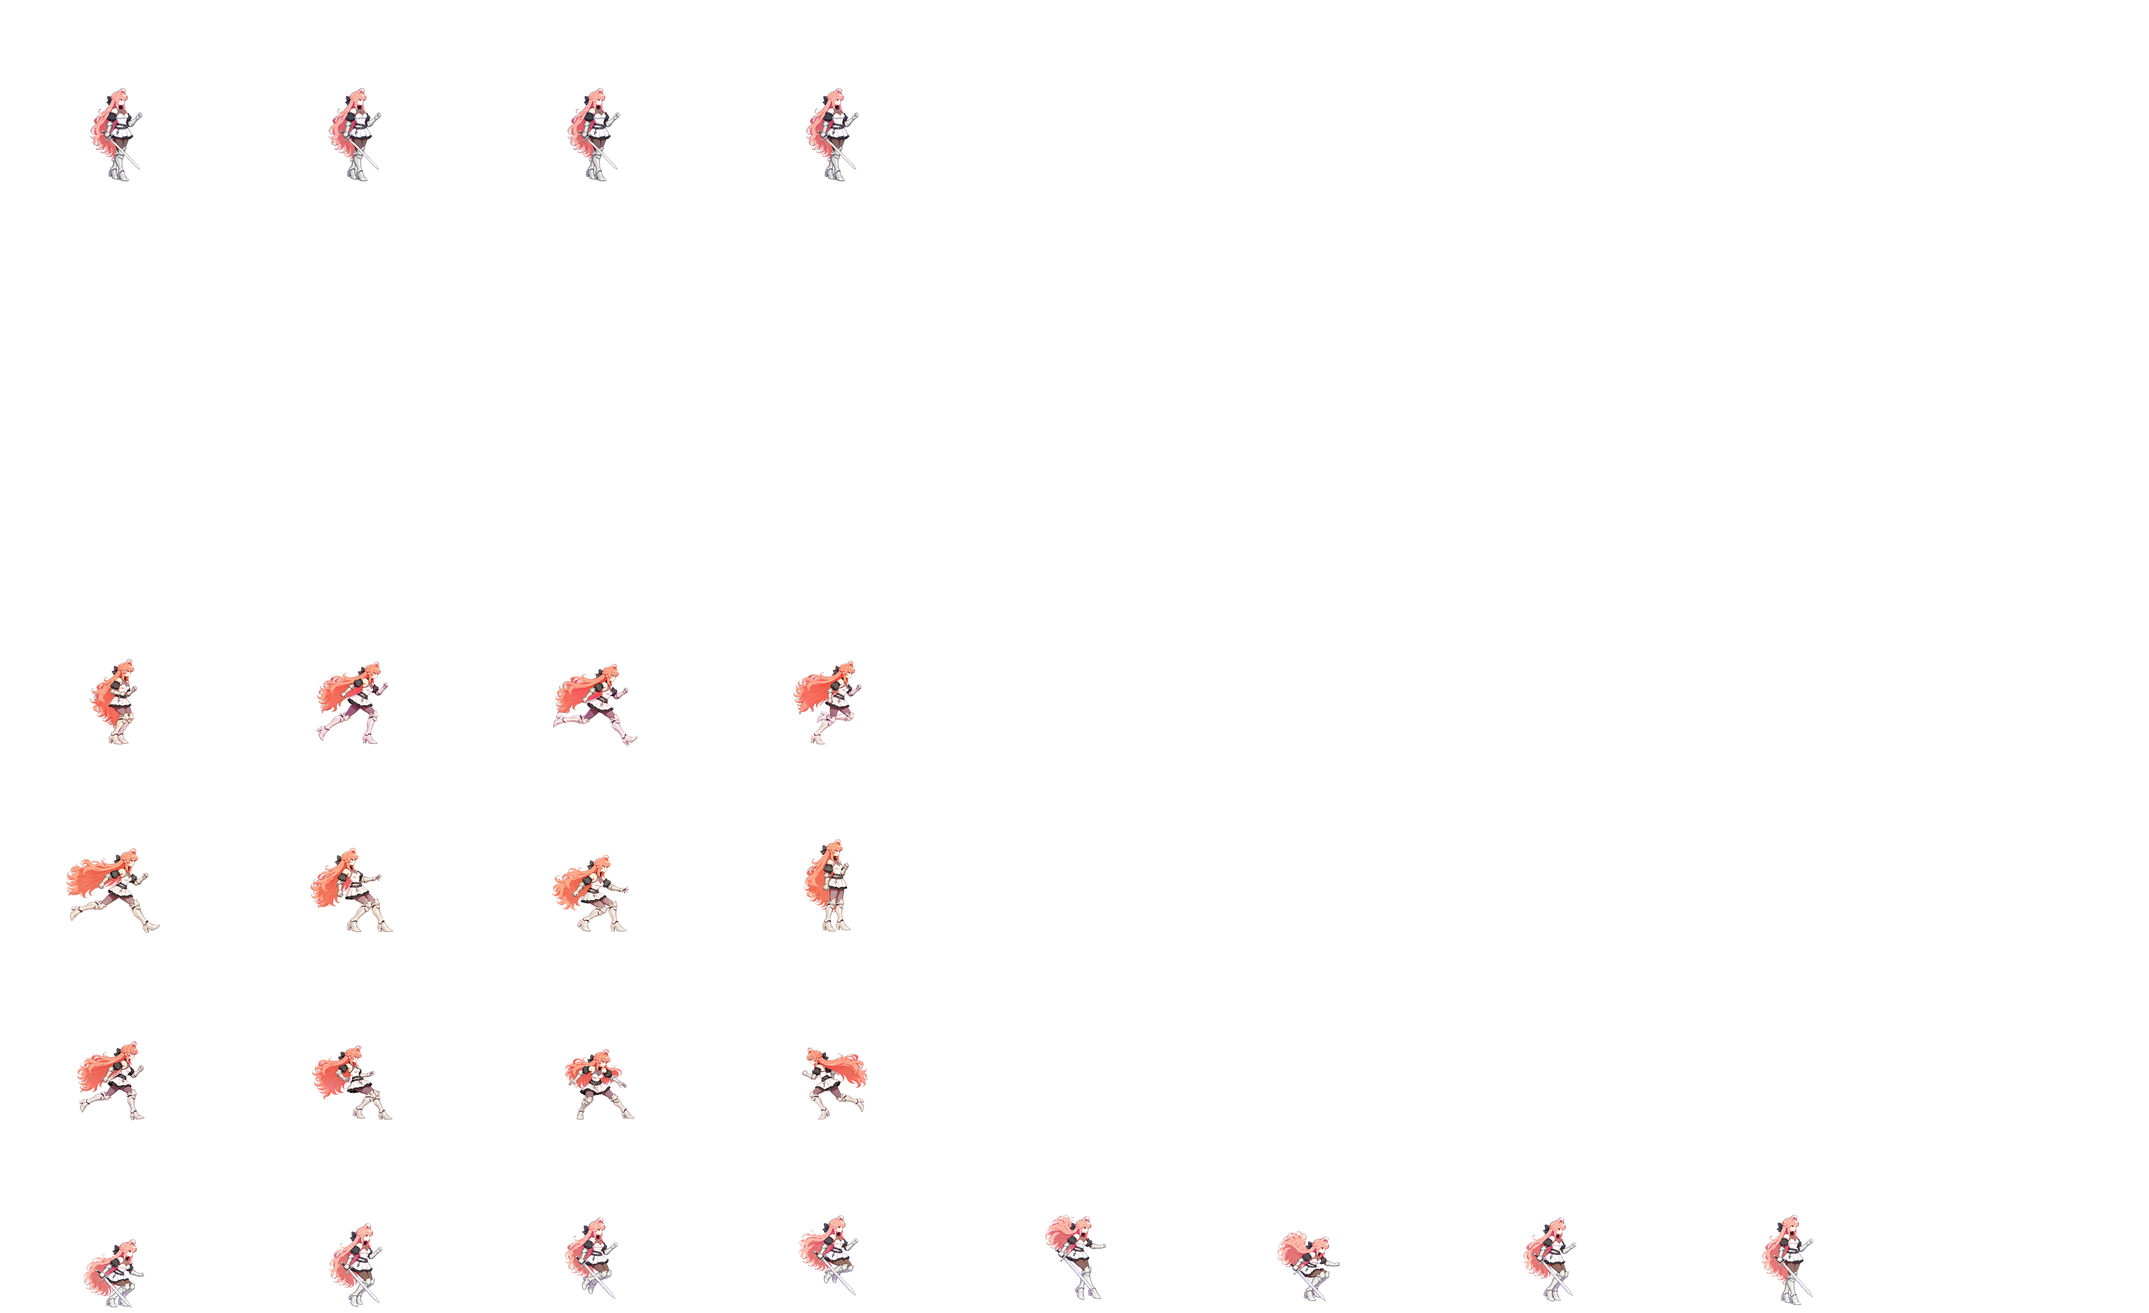
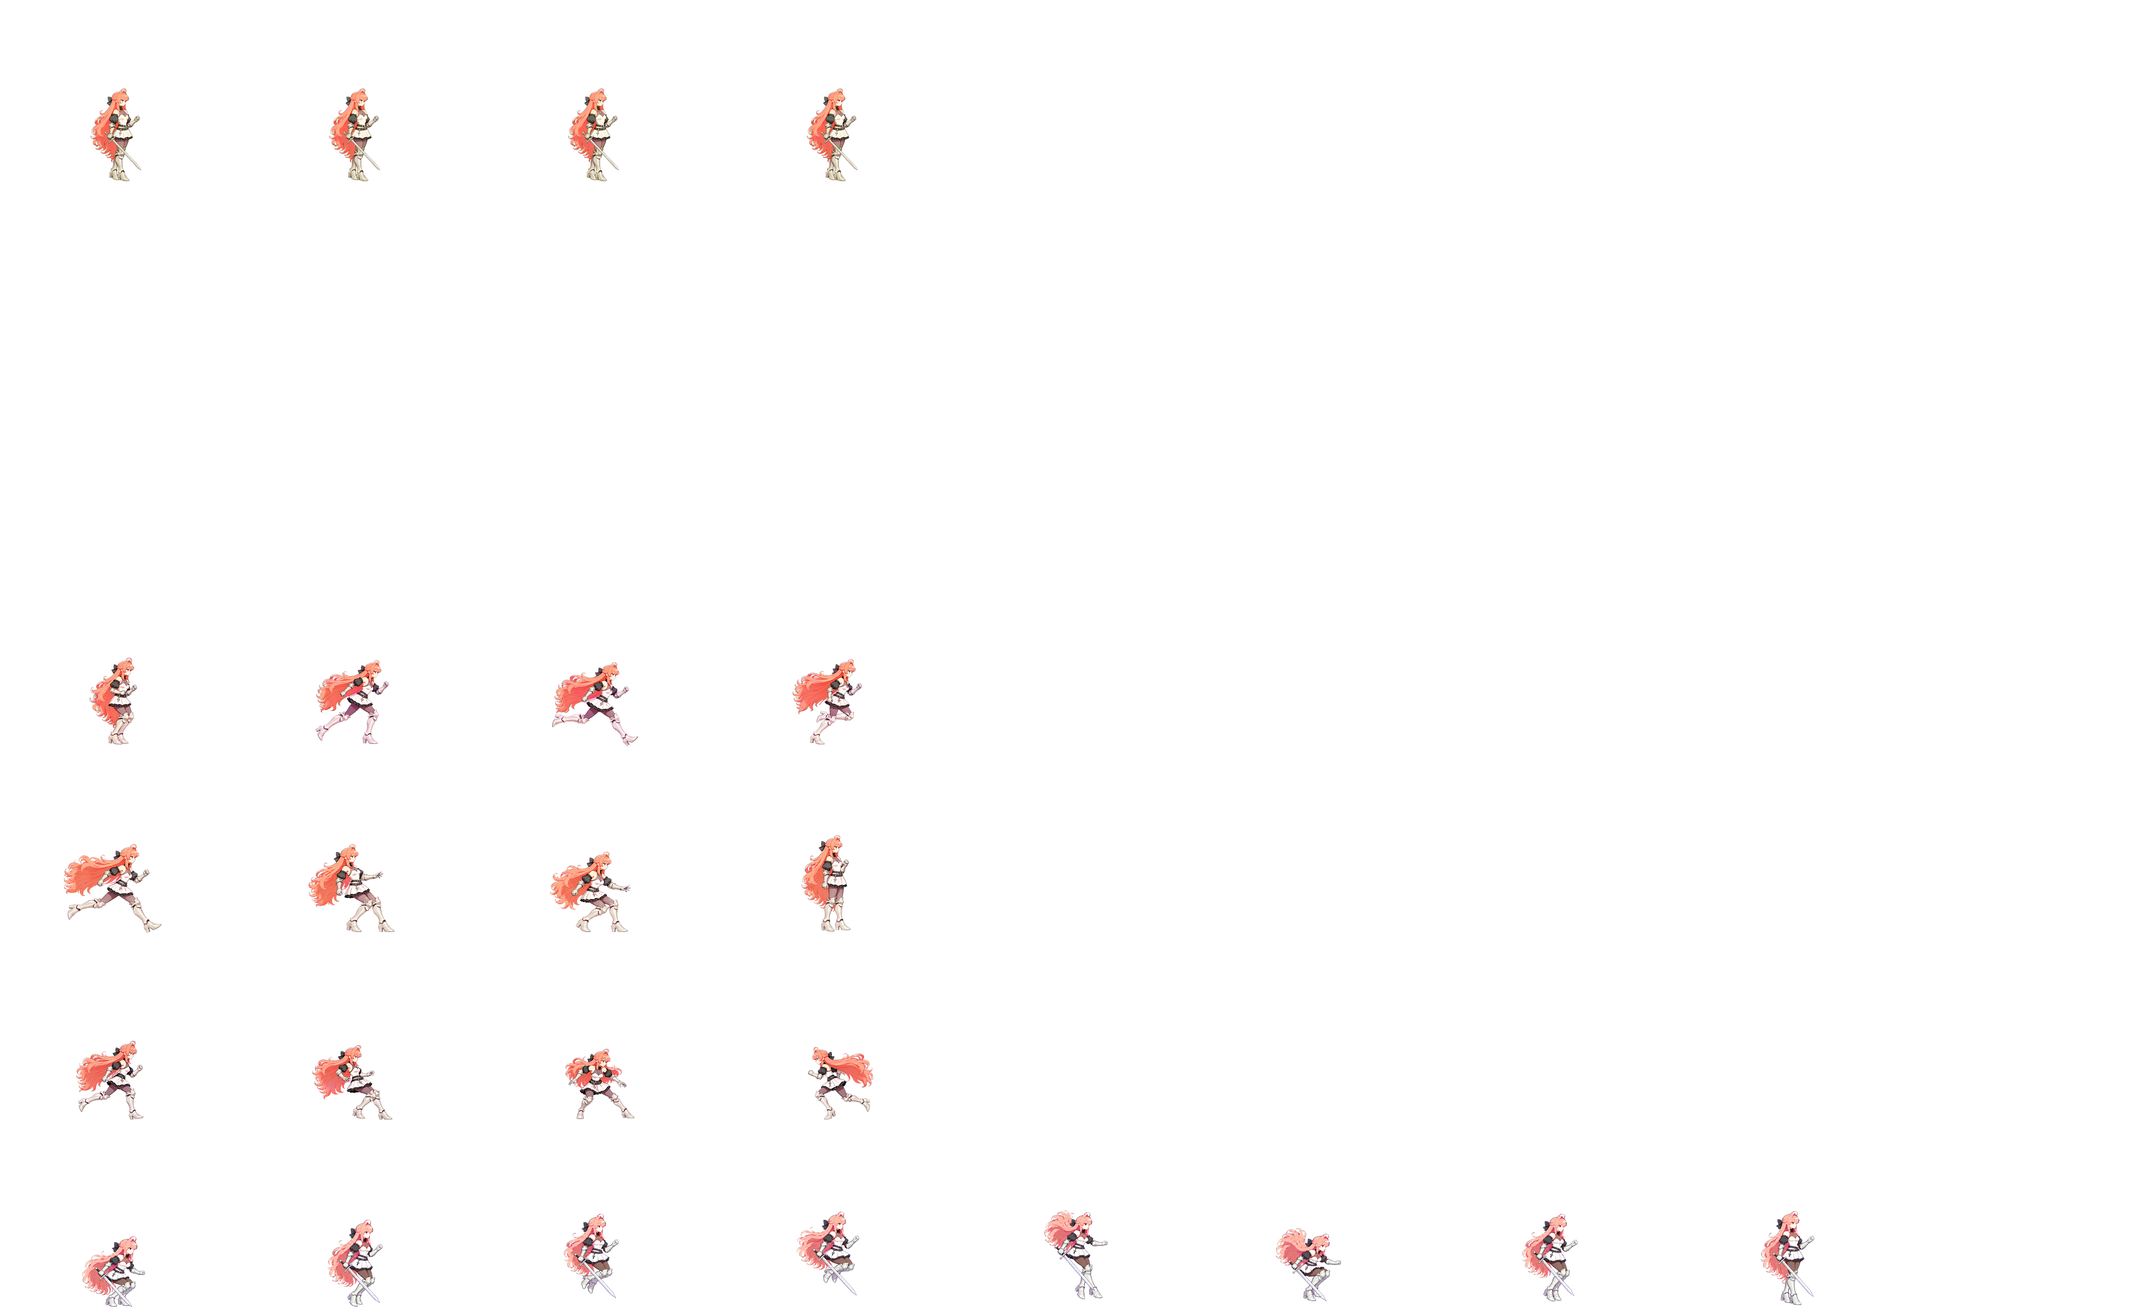
초심: idle is the v2 standing picture; every row re-measured against its head
- Row 0 idle: estelle_v2/ref_greenbg.png (green keyed), the same picture in all 4 frames; the game's idle breathing
  gives the motion. Still the size reference at the same standing height (174 px, 166-339); the breathing lines
  (neck 211, waist 259) sit on the collar and the skirt hem. --v1-idle builds the first idle again.
- The head template is the new idle's crown, face and chin; every other delivery is re-measured against it
  (about +1-7 %, median +3.5 %, vs the v1 head). head_match won't go under a head 15 % of the frame's height, and a
  strip's size is its best match with the good matches that agree with it, so lying / tumbling heads can't vote.
- docs: attack1 (내려베기) and run are to be redrawn; the hair-colour note now covers jump / runjump / walk only.
- tests/cap_skin_flow.gd: idle → walk → run → combo in town, and an idle breathing close-up.

Claude-Session: https://claude.ai/code/session_01VqwGMT6BLxBYQ9bji8g8nf

diff --git a/tools/make_skin_chosim.py b/tools/make_skin_chosim.py
@@ -4,13 +4,14 @@
 usage: python3 tools/make_skin_chosim.py <estelle_v1 folder> <estelle_v2 folder> [contact-sheet folder] [--v1-loco] [--v1-st]
 
 estelle_v1 (the first delivery; magenta sheets on a loose grid, run / walk transparent):
-  idle_4f_magenta.png       4 idle frames                                        → row 0  idle (the size reference)
   jump_8f_magenta.png       crouch, take-off, rise, apex, fall, fall, land, land → row 6  jump
   run6_magenta.png          running take-off (2 rows of 3)                       → row 7  runjump
   walk_43f.png              43-frame walk cycle (7 a row)                        → rows 36-37 walk, 10 of its frames (KEEP)
-  walkstart / runstop / turn_4f_magenta.png, run_18f.png, ref_greenbg.png: the first start, stop, turn, run and standing
-                            art, replaced by v2's; --v1-loco / --v1-st build from them again
+  idle_4f_magenta.png, walkstart / runstop / turn_4f_magenta.png, run_18f.png, ref_greenbg.png: the first idle, start,
+                            stop, turn, run and standing art, replaced by v2's; --v1-idle / --v1-loco / --v1-st build them again
 estelle_v2 (one row per file, facing right, magenta unless noted):
+  ref_greenbg.png (green) → row 0 idle: the standing picture, the same in all 4 frames (the game's idle breathing,
+                            player.gd draw_frame, stretches the torso for the motion); the size reference; also st_base.png
   run_15f.png (transparent, 4 a row) → row 35 run, 8 of 15     start_4f / stop_4f / turn_4f → rows 3 / 4 / 5
   attack1_5f (overhead slash) → 8   attack2_rising_5f → 9   attack3_thrust_5f → 10   kneel_4f → 11   kneel_attack_6f → 12
   attack_high_5f → 13   guard_4f → 14   air_combo_9f → 16   dive_6f → 17 (6 of 6, one held twice, one left out)
@@ -23,10 +24,10 @@ Keying: magenta / green by colour unmixing (skin_slice.key_out); the attack rows
   white (key_out smear=True). Frames of a v2 strip are found from body cores (skin_slice.split_frames), not grid slots: the
   frames sit unevenly and touch.
 Normalisation, the same for every row so 초심 is one character:
-  scale     one factor per delivery image from the HEAD (idle frame 0's crown-to-chin, matched at many scales / tilts), so a
+  scale     one factor per delivery image from the HEAD (idle's crown, face and chin, matched at many scales / tilts), so a
             crouch, a lean, a somersault or a body lying on the floor is never blown up to a standing height. Idle keeps its
-            factor (its median height on 기본's). v2 strips: the matches within 0.05 of the strip's best score (a turned-away,
-            upside-down or lying head matches badly and is left out).
+            factor (its median height on 기본's). v2 strips: the best-scoring frame's size, with the good matches that agree with it
+            (a turned-away, tumbling or lying head can score well at a wrong size and is left out).
   baseline  'ground' rows: each frame's lowest solid row (24+ solid source pixels wide, so a blade tip or a smear under the
             boots doesn't count) on the feet line (340). 'air' rows keep the image's own vertical layout: frames listed as
             standing are on the line, the others rise by how far their feet are above those (jump, dive's take-off, the
@@ -52,6 +53,7 @@ FLAGS = {a for a in sys.argv[1:] if a.startswith('--')}
 SRC1, SRC2 = args[0], args[1]
 CS = args[2] if len(args) > 2 else None
 V1_LOCO = '--v1-loco' in FLAGS
+V1_IDLE = '--v1-idle' in FLAGS
 CSCALE = 1.3                          # chars.gd SCALE estelle: a sheet pixel is 0.5 × 1.3 world px
 RUN_SPEED, WALK_SPEED = 0.36, 0.2     # px/ms: player.gd RUN, townsfolk.gd WALKSP estelle
 
@@ -64,7 +66,6 @@ def base_h(row):
 
 # ---------------- v1: as the first build made them ----------------
 SPEC1 = [  # name, file, key, cols, n, target row, grounded
-    ('idle', 'idle_4f_magenta.png', 'magenta', 4, 4, 0, True),
     ('jump', 'jump_8f_magenta.png', 'magenta', 4, 8, 6, False),
     ('runjump', 'run6_magenta.png', 'magenta', 3, 6, 7, False),
     ('walk', 'walk_43f.png', None, 7, 43, 36, True),
@@ -75,7 +76,10 @@ if V1_LOCO:
 # walk: footfalls at 13 and 37, passing near 3 and 26; steps of 24 and 19 frames → 5 a step. (v1 run: 16, 1, 3, 5, 7, 10, 12, 14)
 KEEP = {'walk': [2, 5, 9, 13, 18, 22, 26, 31, 37, 41]}
 if V1_LOCO: KEEP['run'] = [16, 1, 3, 5, 7, 10, 12, 14]
-HEAD_BOX = (150, 10, 275, 135)          # idle frame 0's head in the source pixels: crown, bow and chin
+if V1_IDLE: SPEC1.insert(0, ('idle', 'idle_4f_magenta.png', 'magenta', 4, 4, 0, True))
+# idle frame 0's head in its source pixels (cropped to the figure): crown, bow, face and chin, no loose hair
+HEAD_BOX = (150, 10, 275, 135) if V1_IDLE else (185, 20, 330, 170)
+HEAD_SCALES = (0.25, 1.31)              # the v2 idle's head is ~1.25x the v1 idle's in source pixels: room below 0.40
 GROUND1 = {'jump': [0, 6, 7], 'runjump': [0]}      # frames standing on the ground (verified by eye)
 
 # ---------------- v2 ----------------
@@ -146,6 +150,11 @@ def render(f, k, ax, lift=0.0):
 
 # ---- v1 ----
 strips = {}
+if not V1_IDLE:
+    st0 = S.key_out(os.path.join(SRC2, 'ref_greenbg.png'), 'green')
+    f0 = S.measure(S.frames_from_rgba(st0, 1, 1))[0]
+    f0['slot_bottom'] = f0['bottom']
+    strips['idle'] = ([dict(f0) for _ in range(4)], 0, True, st0.shape[0])
 for nm, fn, key, cols, n, row, grounded in SPEC1:
     path = os.path.join(SRC1, fn)
     im = S.key_out(path, key) if key else np.asarray(Image.open(path).convert('RGBA'))
@@ -160,7 +169,7 @@ idle_fr = strips['idle'][0]
 REF = idle_fr[0]['rgba']
 k_idle = base_h(0) / float(np.median([f['height'] for f in idle_fr]))
 for nm, (fr, row, grounded, sh) in strips.items():
-    rel, per = S.head_size(REF, HEAD_BOX, fr, every=max(1, len(fr) // 6))
+    rel, per = S.head_size(REF, HEAD_BOX, fr, every=max(1, len(fr) // 6), scales=HEAD_SCALES)
     if nm == 'idle': rel = 1.0
     head[nm] = {'head_vs_idle': round(rel, 3), 'frames': per}
     scale[nm] = k_idle / rel
@@ -203,7 +212,7 @@ def measure2(f):
     lum = rgb @ np.float32([0.299, 0.587, 0.114])
     ys, xs = np.nonzero((a > 200) & (lum < 70))
     f['dark'] = (float(xs.mean()), float(ys.mean())) if len(xs) else (a.shape[1] / 2, a.shape[0] / 2)
-    hm = S.head_match(REF, HEAD_BOX, f['rgba'])
+    hm = S.head_match(REF, HEAD_BOX, f['rgba'], scales=HEAD_SCALES)
     f['head'] = hm
     crown = hm[4] - HEAD_BOX[1] * hm[1]
     f['crown'] = crown if hm[0] >= 0.6 and abs(hm[2]) <= 10 and crown < f['bottom'] - 40 else f['top']
@@ -220,9 +229,11 @@ for nm, o in SPEC2.items():
     fr = [measure2(f) for f in S.split_frames(im, o['n'], o.get('cols'))]
     for f in fr:
         f['slot_bottom'] = f['box'][1] + f['bottom']
-    # the head's size: the matches within 0.05 of the strip's best (the head turned away, upside down or lying matches badly)
-    sc = [f['head'][0] for f in fr]
-    good = [f['head'][1] for f in fr if f['head'][0] >= max(sc) - 0.05]
+    # the head's size: the strip's best match (an upright head), with the other good matches (score within 0.08 of it)
+    # that agree with it within 12 %; a head turned away, tumbling or lying on the floor can score well at a wrong size
+    bi = int(np.argmax([f['head'][0] for f in fr]))
+    s0, v0 = fr[bi]['head'][1], fr[bi]['head'][0]
+    good = [f['head'][1] for f in fr if f['head'][0] >= v0 - 0.08 and abs(f['head'][1] / s0 - 1) <= 0.12]
     rel = float(np.median(good))
     k = k_idle / rel
     raw2[nm] = fr

diff --git a/tools/skin_slice.py b/tools/skin_slice.py
@@ -98,8 +98,11 @@ def _gray(rgba):
     return g @ np.float32([0.299, 0.587, 0.114])
 
 
-def head_match(ref_rgba, box, frame_rgba, region=0.7, half=0.5, scales=(0.40, 1.31)):
-    """the reference head (box in ref_rgba) found in one frame: (score, scale, tilt, x, y of the box's top-left in the frame)"""
+def head_match(ref_rgba, box, frame_rgba, region=0.7, half=0.5, scales=(0.40, 1.31), min_frac=0.15):
+    """the reference head (box in ref_rgba) found in one frame: (score, scale, tilt, x, y of the box's top-left in the frame).
+    A head is never under min_frac of the frame's height (a crouch, a lying body or a somersault is at most ~5-6 heads
+    tall): the search starts there, so a tiny template can't lock onto a bow or a strand of hair"""
+    scales = (max(scales[0], min_frac * frame_rgba.shape[0] / (box[3] - box[1])), scales[1])
     import cv2
     x0, y0, x1, y1 = box
     tpl = _gray(ref_rgba)[y0:y1, x0:x1]
@@ -120,7 +123,7 @@ def head_match(ref_rgba, box, frame_rgba, region=0.7, half=0.5, scales=(0.40, 1.
     return round(v, 3), round(float(s), 3), r, loc[0] / half, loc[1] / half
 
 
-def head_size(ref_rgba, box, frames, every=1, region=0.55, min_score=0.85, half=0.5):
+def head_size(ref_rgba, box, frames, every=1, region=0.55, min_score=0.85, half=0.5, scales=(0.40, 1.31)):
     """the head's size in each frame relative to the reference frame (1.0 = the same pixel size): the reference's head
     (box = x0, y0, x1, y1 around crown, bow and chin, no loose hair) is matched over the upper part of each frame at
     scales 0.40-1.30 and tilts -15..+10 deg (normalised cross-correlation, half resolution, then refined).
@@ -141,7 +144,7 @@ def head_size(ref_rgba, box, frames, every=1, region=0.55, min_score=0.85, half=
             if h >= im.shape[0] or w >= im.shape[1]: return -1.0
             t = cv2.warpAffine(t, cv2.getRotationMatrix2D((w / 2, h / 2), r, 1.0), (w, h), borderMode=cv2.BORDER_REPLICATE)
             return float(cv2.minMaxLoc(cv2.matchTemplate(im, t, cv2.TM_CCOEFF_NORMED))[1])
-        best = max((score(s, r), s, r) for s in np.arange(0.40, 1.31, 0.03) for r in range(-15, 11, 5))
+        best = max((score(s, r), s, r) for s in np.arange(scales[0], scales[1], 0.03) for r in range(-15, 11, 5))
         best = max([best] + [(score(s, r), s, r) for s in np.arange(best[1] - 0.03, best[1] + 0.031, 0.006)
                              for r in (best[2] - 2, best[2], best[2] + 2)])
         res.append((i, round(best[0], 3), round(float(best[1]), 3), best[2]))

diff --git a/docs/skin_assets.md b/docs/skin_assets.md
@@ -161,12 +161,12 @@ GPT·NAI에 포즈 레퍼런스로 넣을 때는 이 그림에서 해당 줄만 
 ### 받아서 넣은 것 (줄 → 원본 파일)
 
 1차(`estelle_v1`)
-- 줄 0 idle 대기 4장 ← `idle_4f_magenta.png` (크기 기준)
 - 줄 6 jump 점프 8장 ← `jump_8f_magenta.png`
 - 줄 7 runjump 달려 점프 6장 ← `run6_magenta.png`
 - 줄 36 ~ 37 walk 걷기 10장 ← `walk_43f.png` 중 10장(원본 2, 5, 9, 13, 18, 22, 26, 31, 37, 41번), 한 바퀴 1050 ms
 
 2차(`estelle_v2`)
+- 줄 0 idle 대기 4장 ← `ref_greenbg.png`(서 있는 그림, 초록 배경). 네 장이 같은 그림이고, 움직임은 게임의 숨쉬기(가슴이 몇 픽셀 늘었다 줄었다)가 준다. 크기 기준: 서 있는 키는 전과 같은 174 px(칸 위에서 166 ~ 339). 숨쉬기 기준선(목 211, 허리 259)은 새 자세의 목깃과 치맛단에 걸린다. 1차 대기(`idle_4f_magenta.png`)는 쓰지 않는다(`--v1-idle`로 되돌림)
 - 줄 3 start 출발 4장 ← `start_4f.png` · 줄 4 stop 멈춤 4장 ← `stop_4f.png` · 줄 5 turn 돌아서기 4장 ← `turn_4f.png` (1차 것을 바꿈)
 - 줄 35 run 달리기 8장 ← `run_15f.png`(15장, 투명) 중 8장: 원본 14, 1, 3, 5, 7, 8, 10, 12번(뻗음, 디딤, 내려앉음, 교차 × 두 걸음). 발이 닿는 장은 원본 1·8번 = 게임 1·5번(먼지·발소리). 한 장 80 ms, 원본 7→8은 한 칸 차이라 7번만 50 ms, 한 바퀴 610 ms(초당 약 3.3걸음). 처음과 끝이 이어지는 자리의 변화량이 걸음 안의 변화량과 같아서 고리가 매끄럽다. 보폭이 짧아 발이 조금 미끄러진다(발을 붙이려면 한 바퀴 398 ms여야 함)
 - 줄 8 attack1 1타 5장 ← `attack1_5f.png` (위에서 비스듬히 내려 베기)
@@ -195,14 +195,16 @@ GPT·NAI에 포즈 레퍼런스로 넣을 때는 이 그림에서 해당 줄만 
 
 - 자홍·초록 배경은 색을 풀어 빼는 방식으로 지웠다. 공격 장의 반투명 잔상(흰 부채꼴)은 자홍 위에 흰색이 반쯤 얹힌 색이라, 그 픽셀만 따로 투명도를 다시 계산해 흰색으로 되돌렸다(자홍 물이 빠지고, 흐린 끝자락도 남는다)
 - 2차 그림은 프레임 간격이 고르지 않고 칼끝·잔상이 옆 장의 머리카락에 닿아 있어, 칸으로 나누지 않고 몸통에서부터 나누어 찾는다
-- 크기는 **머리 크기**로 맞췄다(파일마다 하나의 배율). 웅크리기, 공중제비, 쓰러져 누운 장도 서 있는 장과 같은 배율이라 부풀지 않는다. 머리가 돌아가거나 거꾸로인 장은 머리 찾기 점수가 낮아 배율 계산에서 빠진다
+- 크기는 **머리 크기**로 맞췄다(파일마다 하나의 배율). 기준 머리는 새 대기 그림(2차 서 있는 그림)의 정수리·얼굴·턱이다. 대기를 바꾸면서 다른 줄을 모두 새 머리로 다시 재었고, 전보다 약 1 ~ 7%(가운데 3.5%) 커졌다(2차 그림은 같은 화풍의 머리와 맞춰져 더 정확하다). 웅크리기, 공중제비, 쓰러져 누운 장도 서 있는 장과 같은 배율이라 부풀지 않는다. 머리가 돌아가거나 거꾸로인 장은 머리 찾기 점수가 낮아 배율 계산에서 빠진다
 - 땅을 딛는 줄은 신발 바닥을 기준선에(칼끝이나 잔상이 발보다 아래로 내려가도 발 기준). 공중 줄(air_combo, air_guard, double_jump, dive의 앞 장, dash의 날아가는 장)은 원본의 높낮이를 그대로 살렸다
 - 가로는 골반 기준. 크게 내딛는 공격(attack1·2·3, attack_high)은 2 ~ 4번째 장에서 뒷발을 첫 장 자리에 붙여 몸이 앞으로 나가게 하고, 첫 장과 마지막 장은 골반이 대기 자리라 시작·끝에서 튀지 않는다. 공중제비는 몸통(검은 소매·허리띠) 중심으로 돈다
 
 ### 알아 둘 것 (그림 문제)
 
-- **2차 달리기·출발·멈춤·돌아서기에는 칼이 없다.** 대기·점프·걷기(1차)와 공격 줄(2차)은 칼을 들고 있어서, 대기 → 출발, 달리기 → 공격·점프로 넘어갈 때 칼이 사라졌다 나타난다. 칼을 든 달리기 4종을 다시 받으면 좋다. 1차 것으로 되돌리려면 도구에 `--v1-loco`(서 있는 그림은 `--v1-st`)
-- **머리색이 두 묶음으로 다르다.** 1차(대기·점프·걷기)는 분홍, 2차는 살구빛(색상 약 5 ~ 8° 더 주황). 대기 → 공격에서 눈에 띌 수 있다. 대기·점프·달려 점프·걷기를 2차 색으로 다시 받으면 맞는다
+- **다시 뽑을 것: attack1 내려 베기(줄 8), run 달리기(줄 35).** 사용자가 새로 그릴 예정이라 지금 그림은 임시다. 받으면 `estelle_v2`에 같은 이름으로 넣고 도구를 다시 돌리면 된다(장수가 다르면 도구의 `SPEC2` 해당 줄의 `n`·`pick`을 고친다)
+
+- **2차 달리기·출발·멈춤·돌아서기에는 칼이 없다.** 대기·점프·걷기와 공격 줄은 칼을 들고 있어서, 대기 → 출발, 달리기 → 공격·점프로 넘어갈 때 칼이 사라졌다 나타난다. 칼을 든 달리기 4종을 다시 받으면 좋다. 1차 것으로 되돌리려면 도구에 `--v1-loco`(서 있는 그림은 `--v1-st`)
+- **머리색이 두 묶음으로 다르다.** 1차(점프·달려 점프·걷기)는 분홍, 2차(대기 포함)는 살구빛(색상 약 5 ~ 8° 더 주황). 대기가 2차 그림이 되어 대기 ↔ 공격은 맞고, 대기 ↔ 점프·걷기에서 눈에 띌 수 있다. 점프·달려 점프·걷기를 2차 색으로 다시 받으면 맞는다
 - hurt 첫 장은 머리를 뒤(왼쪽)로 젖혀 얼굴이 반대쪽을 보는 것처럼 읽힌다. 맞고 젖혀지는 동작으로는 쓸 만해서 그대로 넣었다
 - 게임도 공격마다 자체 베기 효과(분홍 호·찌르기 줄)를 그린다. 그림 속 잔상과 겹쳐 두 겹으로 보인다(원래 그림도 잔상이 그려져 있어 전에도 그랬다). 효과는 그대로 두었다
 
